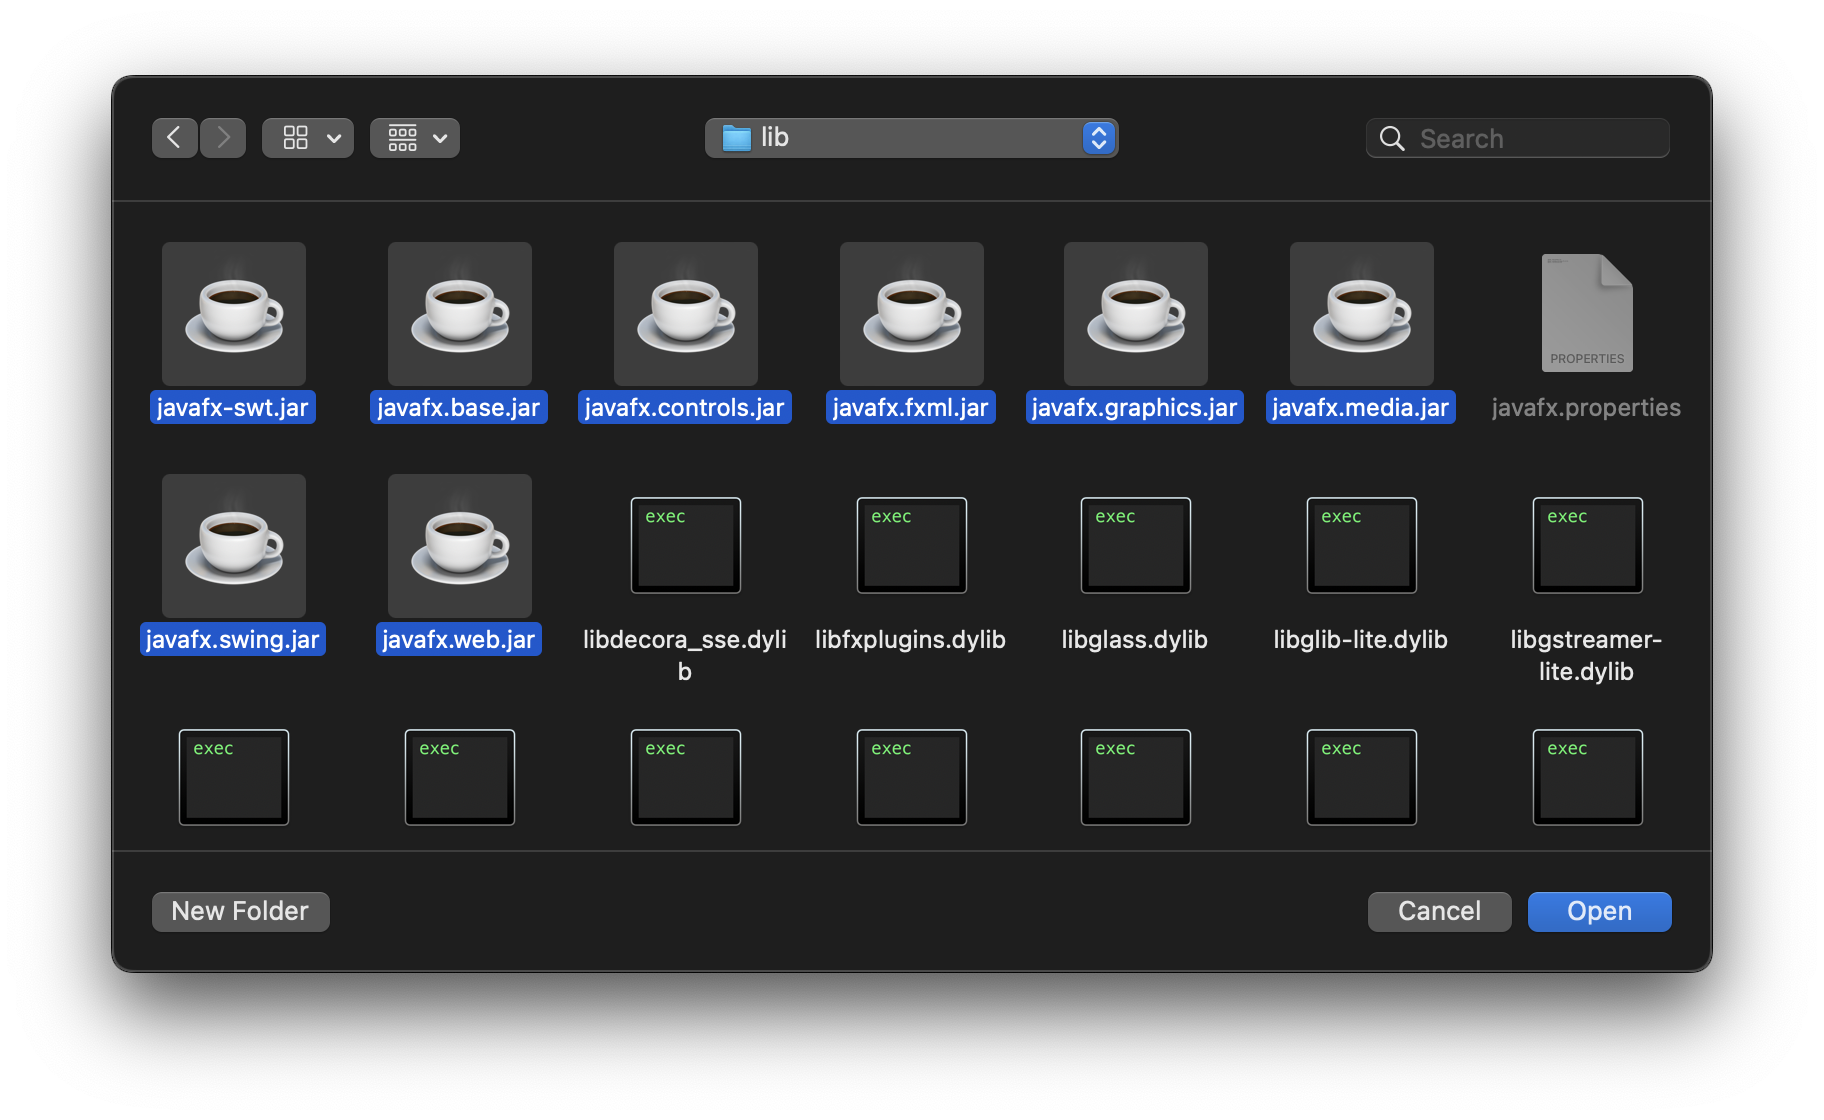
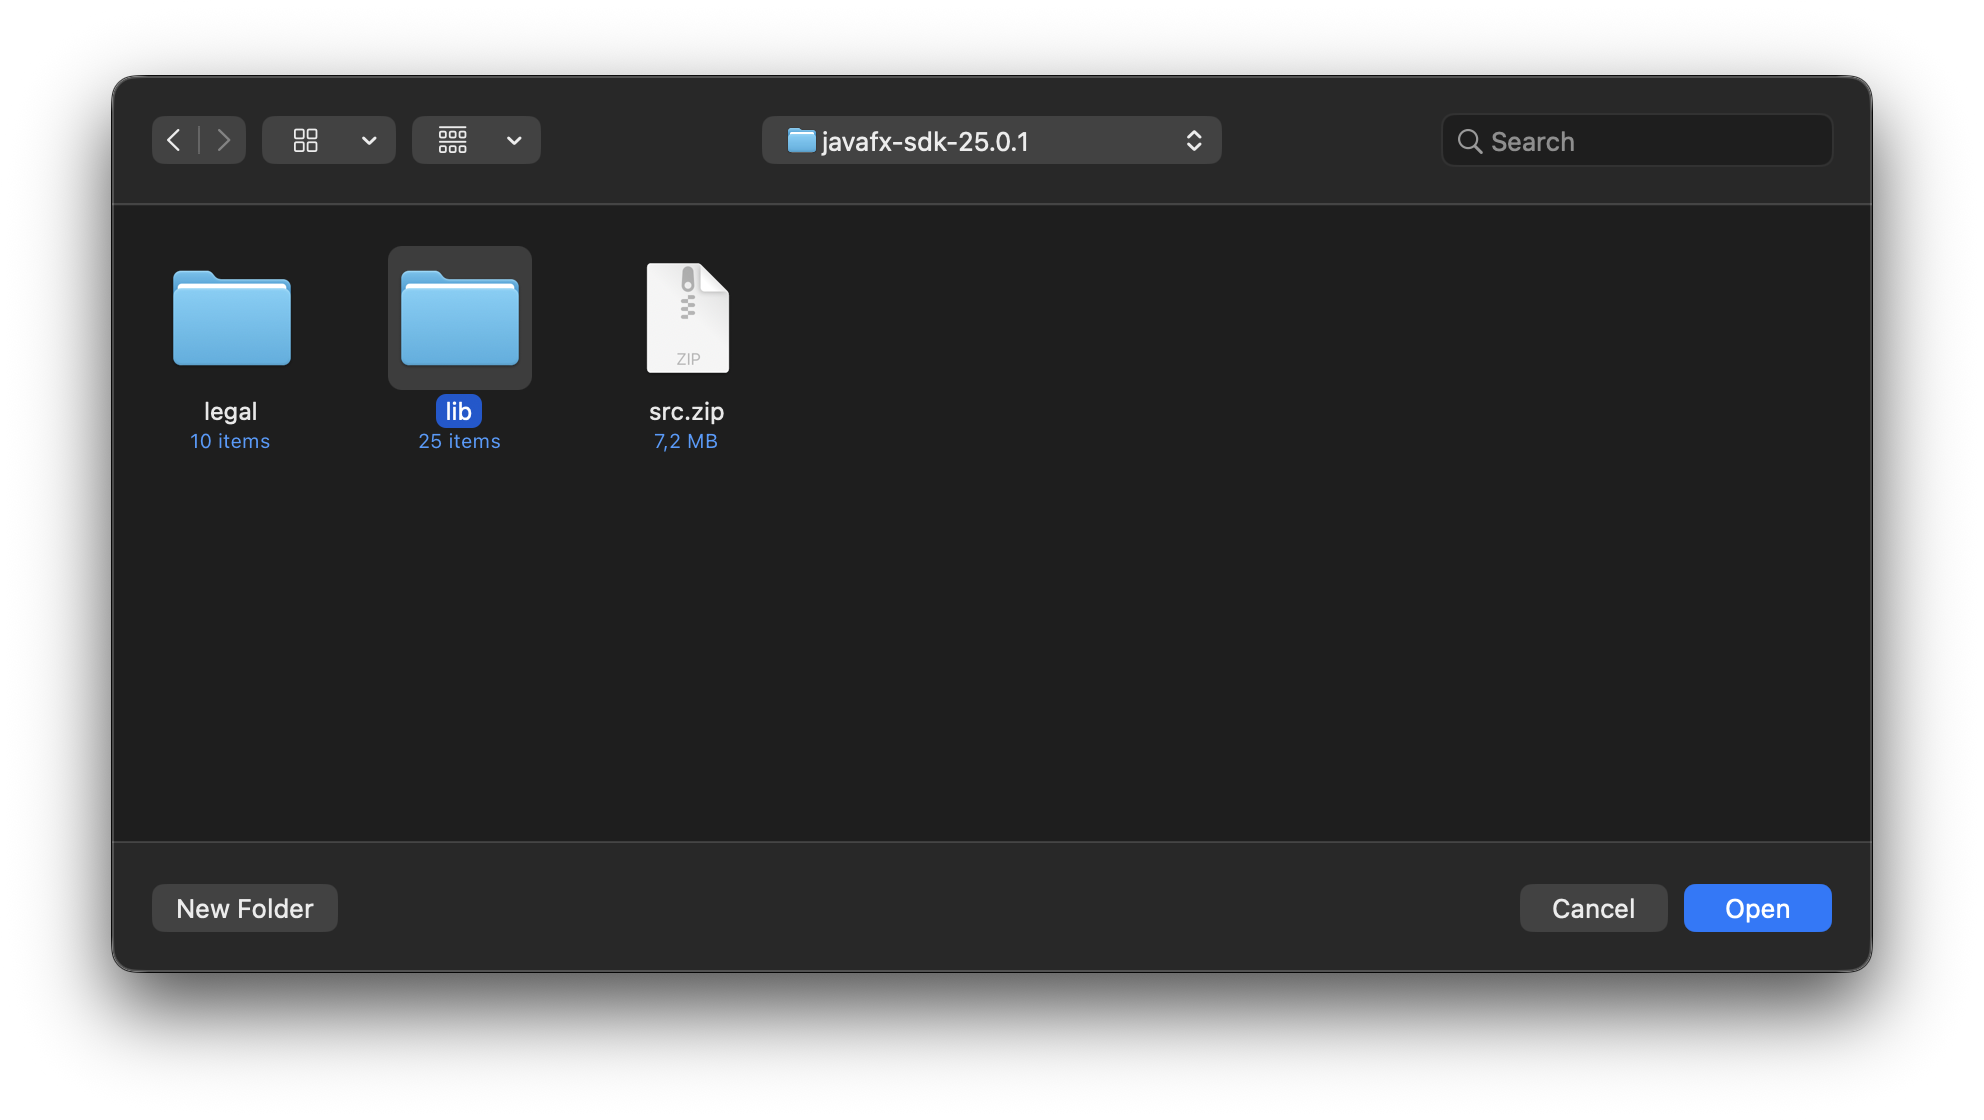
Updated tutorials for Ruby 4 and Java 25

diff --git a/Writerside/topics/javafx.md b/Writerside/topics/javafx.md
@@ -5,24 +5,24 @@
 ## Descarga de JavaFX
 
 Ir al sitio
-<a href="https://jdk.java.net/javafx22/">jdk.java.net</a>
+<a href="https://jdk.java.net/javafx25/">jdk.java.net</a>
 y descargar el **SDK** correspondiente al sistema operativo que está utilizando
 
 <img src="javafx-1.png" alt="Paso 1 JavaFX" width="600"/>
 
 <tip>
     <p>
-        Para utilizar JavaFX es necesario contar con Java 17 o superior.
+        Para utilizar JavaFX es necesario contar con Java 25 o superior.
     </p>
 </tip>
 
 En este caso se descargará el SDK macOS/AArch64 (_que es el correspondiente para las Mac con procesadores M1 y similares_)
 y el archivo se llama 
-<code>openjfx-21.0.1_macos-aarch64_bin-sdk.tar.gz</code>
+<code>openjfx-25.0.1_macos-aarch64_bin-sdk.tar.gz</code>
 
 Descomprimirlo en un directorio. Para este ejemplo la ruta será
 
-<code-block lang="console">/Users/fmeola/javafx-sdk-21.0.1/</code-block>
+<code-block lang="console">/Users/fmeola/poo/javafx-sdk-25.0.1/</code-block>
 
 ## Configuración de la librería global de JavaFX en IntelliJ IDEA
 
@@ -45,11 +45,10 @@ Luego ir a **Project Structure** desde el engranaje de la esquina superior derec
 En **Platform Settings -> Global Libraries** presionar el botón **+** para la opción 
 **New Global Library -> Java**
 
-Se abrirá una ventana para elegir archivos. Seleccionar todos los archivos de extensión 
-<code>.jar</code> que están presentes en la carpeta 
+Se abrirá una ventana para elegir archivos. Seleccionar la carpeta
 <code>lib/</code>. 
 Siguiendo con el ejemplo sería el directorio
-<code>/Users/fmeola/javafx-sdk-21.0.1/lib</code>.
+<code>/Users/fmeola/javafx-sdk-25.0.1/lib</code>.
 
 <img src="javafx-4.png" alt="Paso 4 JavaFX" width="600"/>
 
@@ -67,11 +66,11 @@ Para utilizar la librería global en este o en cualquier otro proyecto de Intell
 luego **Project Settings -> Modules** y presionar la tab **Dependencies**
 
 Luego con el botón **+** elegir la opción **Library...** y luego la librería global desde **Global Libraries**. 
-En este caso <code>javafx-swt</code>. Presionar **Add Selected** para agregarla.
+En este caso <code>lib</code>. Presionar **Add Selected** para agregarla.
 
 <img src="javafx-6.png" alt="Paso 6 JavaFX" width="300"/>
 
-Debería ver la librería <code>javafx-swt</code> agregada al módulo.
+Debería ver la librería <code>lib</code> agregada al módulo.
 
 <img src="javafx-7.png" alt="Paso 7 JavaFX" width="600"/>
 
@@ -106,7 +105,7 @@ Por último agregar los siguientes flags que indican la ruta de la carpeta
 <code>lib/</code> del directorio de JavaFX y mencionan las librerías necesarias.
 
 <code-block lang="console">
---module-path /Users/fmeola/javafx-sdk-21.0.1/lib
+--module-path /Users/fmeola/poo/javafx-sdk-25.0.1/lib
 --add-modules=javafx.swt,javafx.base,javafx.controls,javafx.fxml,javafx.graphics,javafx.media,javafx.swing,javafx.web
 </code-block>
 

diff --git a/Writerside/topics/ruby-macos.md b/Writerside/topics/ruby-macos.md
@@ -25,7 +25,7 @@ Puede verificar la instalación de **HomeBrew** utilizando el siguiente comando
 
 donde debería obtener una salida como la siguiente
 
-<code-block lang="plain text">Homebrew 4.4.21</code-block>
+<code-block lang="plain text">Homebrew 5.0.13</code-block>
 
 ## Instalación de paquetes ruby-build y rbenv
 
@@ -51,26 +51,26 @@ Consulte las versiones de Ruby disponibles para su instalación
 Debería ver una salida similar a la siguiente
 
 <code-block lang="plain text">
-3.1.6
-3.2.7
-3.3.7
-3.4.2
-jruby-9.4.12.0
-mruby-3.3.0
+3.2.10
+3.3.10
+3.4.8
+4.0.1
+jruby-10.0.2.0
+mruby-3.4.0
 picoruby-3.0.0
-truffleruby-24.1.2
-truffleruby+graalvm-24.1.2
+truffleruby-33.0.1
+truffleruby+graalvm-33.0.1
 </code-block>
 
 Identifique en la salida una versión 
-<shortcut>3.4.X</shortcut> o superior, en este ejemplo es la <code>3.4.2</code>
+<shortcut>4.X</shortcut> o superior, en este ejemplo es la <code>4.0.1</code>
 
 ## Instalación de Ruby
 
 Instale la versión de Ruby identificada usando
-<code>rbenv</code>, en este ejemplo es la <code>3.4.2</code>
+<code>rbenv</code>, en este ejemplo es la <code>4.0.1</code>
 
-<code-block lang="console">rbenv install 3.4.2</code-block>
+<code-block lang="console">rbenv install 4.0.1</code-block>
 
 ### Configuración de rbenv
 
@@ -101,7 +101,7 @@ Desde ahora
 
 Puede setear la versión deseada
 
-<code-block lang="console">rbenv shell 3.4.2</code-block>
+<code-block lang="console">rbenv shell 4.0.1</code-block>
 
 Finalmente verifique que al invocar a 
 <code>ruby</code> desde la terminal ejecuta la versión deseada
@@ -111,11 +111,11 @@ Finalmente verifique que al invocar a
 donde debe obtener una salida similar a la siguiente
 
 <code-block lang="plain text">
-ruby 3.4.2 (2025-02-15 revision d2930f8e7a) +PRISM [arm64-darwin24]
+ruby 4.0.1 (2026-01-13 revision e04267a14b) +PRISM [arm64-darwin25]
 </code-block>
 
 <note>
     <p>
-        Listo! Ya cuenta con Ruby 3.4 instalado correctamente.
+        Listo! Ya cuenta con Ruby 4 instalado correctamente.
     </p>
 </note>

diff --git a/Writerside/topics/ruby-windows.md b/Writerside/topics/ruby-windows.md
@@ -4,7 +4,7 @@
 
 Ir al sitio de 
 <a href="https://rubyinstaller.org/downloads/">RubyInstaller</a>
-y descargar una versión <shortcut>3.4.X</shortcut> o superior del **Ruby+Devkit**. Elija la versión correspondiente a su
+y descargar una versión <shortcut>4.X</shortcut> o superior del **Ruby+Devkit**. Elija la versión correspondiente a su
 arquitectura (x86 o x64).
 
 <warning>
@@ -16,9 +16,8 @@ arquitectura (x86 o x64).
 
 Al momento de crear este tutorial los instaladores son:
 
-- **Ruby+Devkit 3.4.2-1 (arm)**
-- **Ruby+Devkit 3.4.2-1 (x64)**
-- **Ruby+Devkit 3.4.2-1 (x86)**
+- **Ruby+Devkit 4.0.1-1 (arm)**
+- **Ruby+Devkit 4.0.1-1 (x64)**
 
 <tip>
     <p>
@@ -60,6 +59,6 @@ para salir de la terminal y finalizar la instalación.
 
 <note>
     <p>
-        Listo! Ya cuenta con Ruby 3.4 instalado correctamente.
+        Listo! Ya cuenta con Ruby 4 instalado correctamente.
     </p>
 </note>

diff --git a/Writerside/topics/plantuml.md b/Writerside/topics/plantuml.md
@@ -6,9 +6,20 @@ Para realizar los **diagramas de clase** recomendamos la herramienta
 ## Uso de PlantUML desde el navegador
 
 Puede generar los diagramas PlantUML sin necesidad de instalar ninguna herramienta accediendo al 
-<a href="https://www.plantuml.com/plantuml/uml/">Online Server</a>. 
+<a href="https://editor.plantuml.com/uml/">Online Server</a>. 
 
 <tip>El sitio web contiene anuncios</tip>
+
+## Uso de PlantUML con Docker + Dev Container
+
+En cualquiera de los **Dev Container** de los repositorios de las guías de ejercicios
+como `laboratorio_java` o `laboratorio_ruby` ya cuenta con PlantUML instalado.
+
+También cuenta con la extensión de Visual Studio Code correspondiente.
+
+<tip>
+Utilizar el enlace ubicado en <b>Campus ITBA</b> para conseguir acceso al repositorio.
+</tip>
 
 ## Uso de PlantUML desde IntelliJ IDEA
 

diff --git a/Writerside/topics/ruby-linux.md b/Writerside/topics/ruby-linux.md
@@ -15,7 +15,7 @@ Para instalar la versión estable más reciente de Ruby ejecute el siguiente com
 Debería ver una salida similar a la siguiente
 
 <code-block lang="plain text">
-ruby 3.4.2 from Ruby core team (rubylang) installed
+ruby 4.0.0 from Ruby core team (rubylang) installed
 </code-block>
 
 Finalmente verifique que al invocar a
@@ -26,11 +26,11 @@ Finalmente verifique que al invocar a
 donde debe obtener una salida similar a la siguiente
 
 <code-block lang="plain text">
-ruby 3.4.2 (2025-02-15 revision d2930f8e7a) +PRISM [aarch64-linux]
+ruby 4.0.0 (2025-12-25 revision 553f1675f3) +PRISM [aarch64-linux]
 </code-block>
 
 <note>
     <p>
-        Listo! Ya cuenta con Ruby 3.4 instalado correctamente.
+        Listo! Ya cuenta con Ruby 4 instalado correctamente.
     </p>
 </note>

diff --git a/Writerside/topics/rubymine.md b/Writerside/topics/rubymine.md
@@ -1,11 +1,8 @@
 # Instalación de RubyMine
 
-## Registro y Licencia
+## Licencia Gratuita
 
-**RubyMine** requiere una licencia. Los alumnos pueden registrarse en
-<a href="https://www.jetbrains.com/shop/eform/students">**Productos JetBrains para el aprendizaje**</a>
-con su mail **@itba.edu.ar** y así obtener una **licencia gratuita** para utilizar RubyMine y demás aplicaciones
-de JetBrains de forma gratuita.
+**RubyMine** ofrece una licencia "Free for non-commercial use".
 
 ## Instalación de RubyMine usando ToolBox App
 

diff --git a/Writerside/topics/ruby-index.md b/Writerside/topics/ruby-index.md
@@ -1,6 +1,17 @@
 # Instalación de Ruby
 
-Contenido:
+## Uso de Ruby con Docker + Dev Container
+
+En el **Dev Container** del repositorio de las guías de ejercicios
+`laboratorio_ruby` ya cuenta con Ruby 4 instalado.
+
+También cuenta con la extensión de Visual Studio Code correspondiente.
+
+<tip>
+Utilizar el enlace ubicado en <b>Campus ITBA</b> para conseguir acceso al repositorio.
+</tip>
+
+## Uso de Ruby local
 
 <a href="ruby-macos.md">Instalación de Ruby en **macOS**</a>
 
